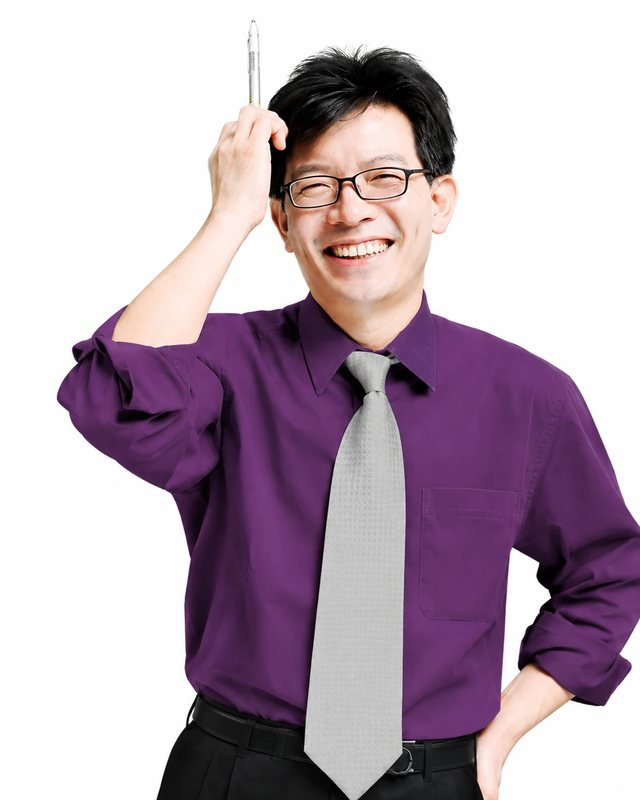
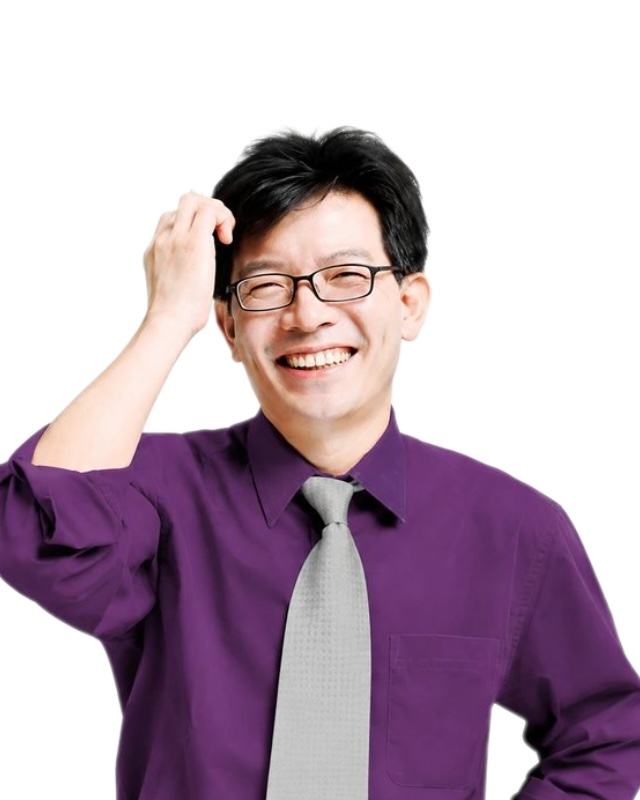
강사 사진 16장: 배경 흰색 통일, 얼굴 크기·높이 맞춤 (이태형·최현재 얼굴 작게)

diff --git a/index.html b/index.html
@@ -610,7 +610,7 @@ const T=[
 ];
 const list=document.getElementById('tlist');
 /* 사진: img/teachers/이름.jpg 를 PHOTO 에 적으면 사진, 없으면 성 한 글자 */
-const PHOTO={};['류성훈','이태형','장의순','김호랑','권현석','정민','홍진수','최정윤','이예섭','정지만','김현중','이창환','최현재','김경한','문지현','박정은'].forEach(n=>PHOTO[n]='img/teachers/'+n+'.jpg');
+const PHOTO={};['류성훈','이태형','장의순','김호랑','권현석','정민','홍진수','최정윤','이예섭','정지만','김현중','이창환','최현재','김경한','문지현','박정은'].forEach(n=>PHOTO[n]='img/teachers/'+n+'.jpg?v=1123');
 /* 줄 순서: 1줄 국어 · 2줄 수학 · 3줄 영어 · 4줄 탐구 · 논술 (11/19 사장님 요청)
    같은 과목 안에서는 (탐구는 통합과학·통합사회·사탐 순으로 묶고) 사진 있는 강사 먼저, 나머지는 배열 순서 그대로 */
 const SUBJ=['국어','수학','영어','탐구','논술'];
